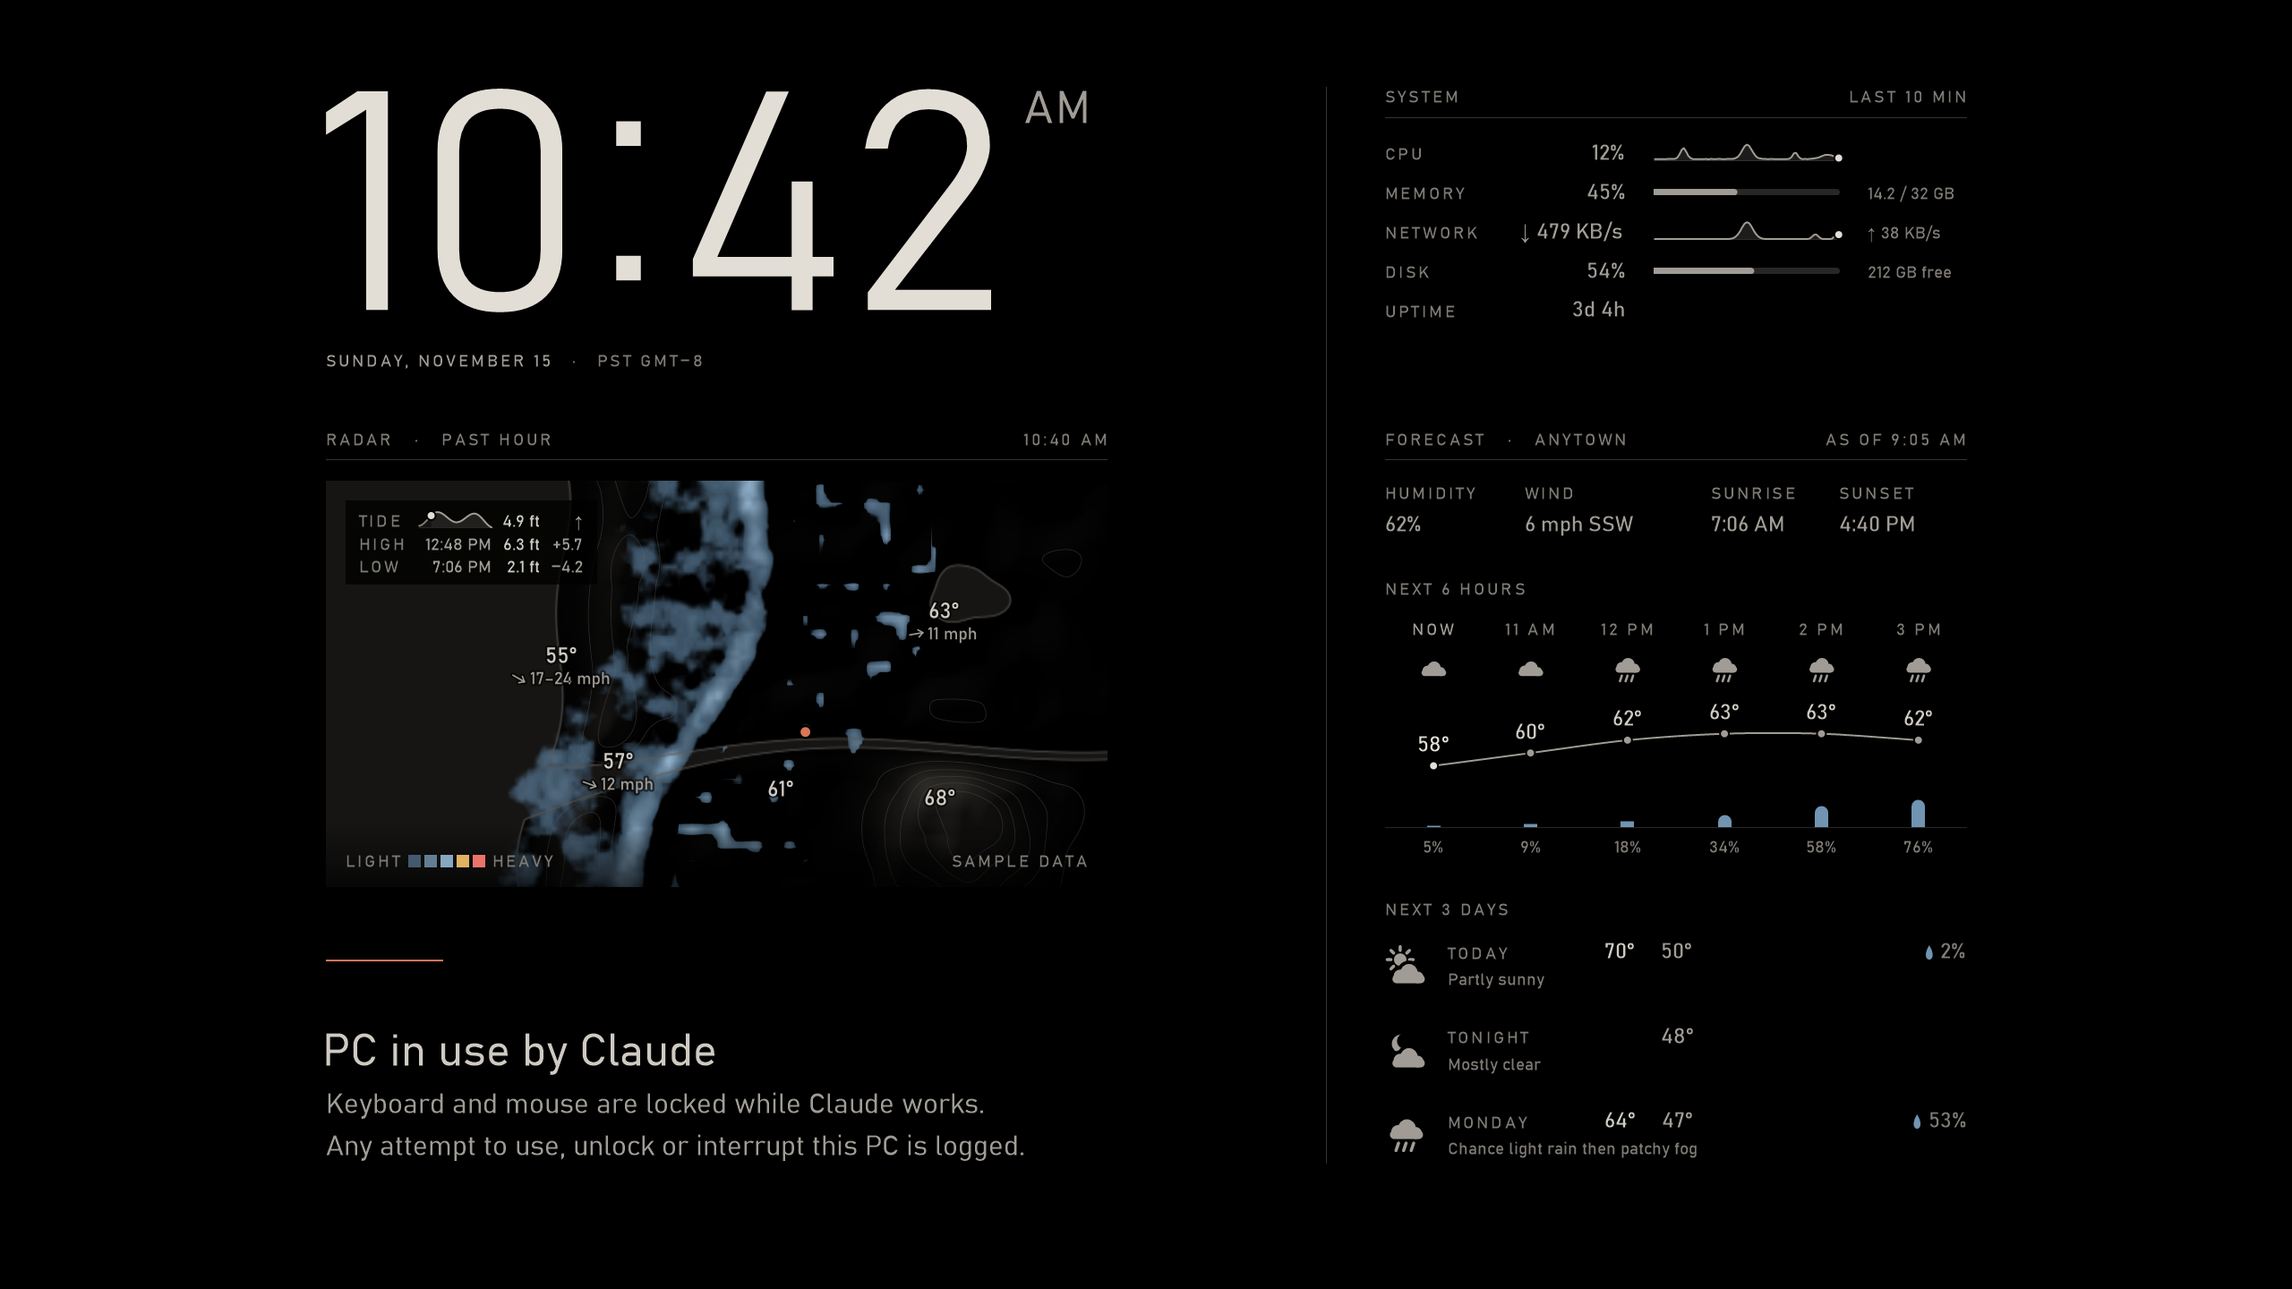
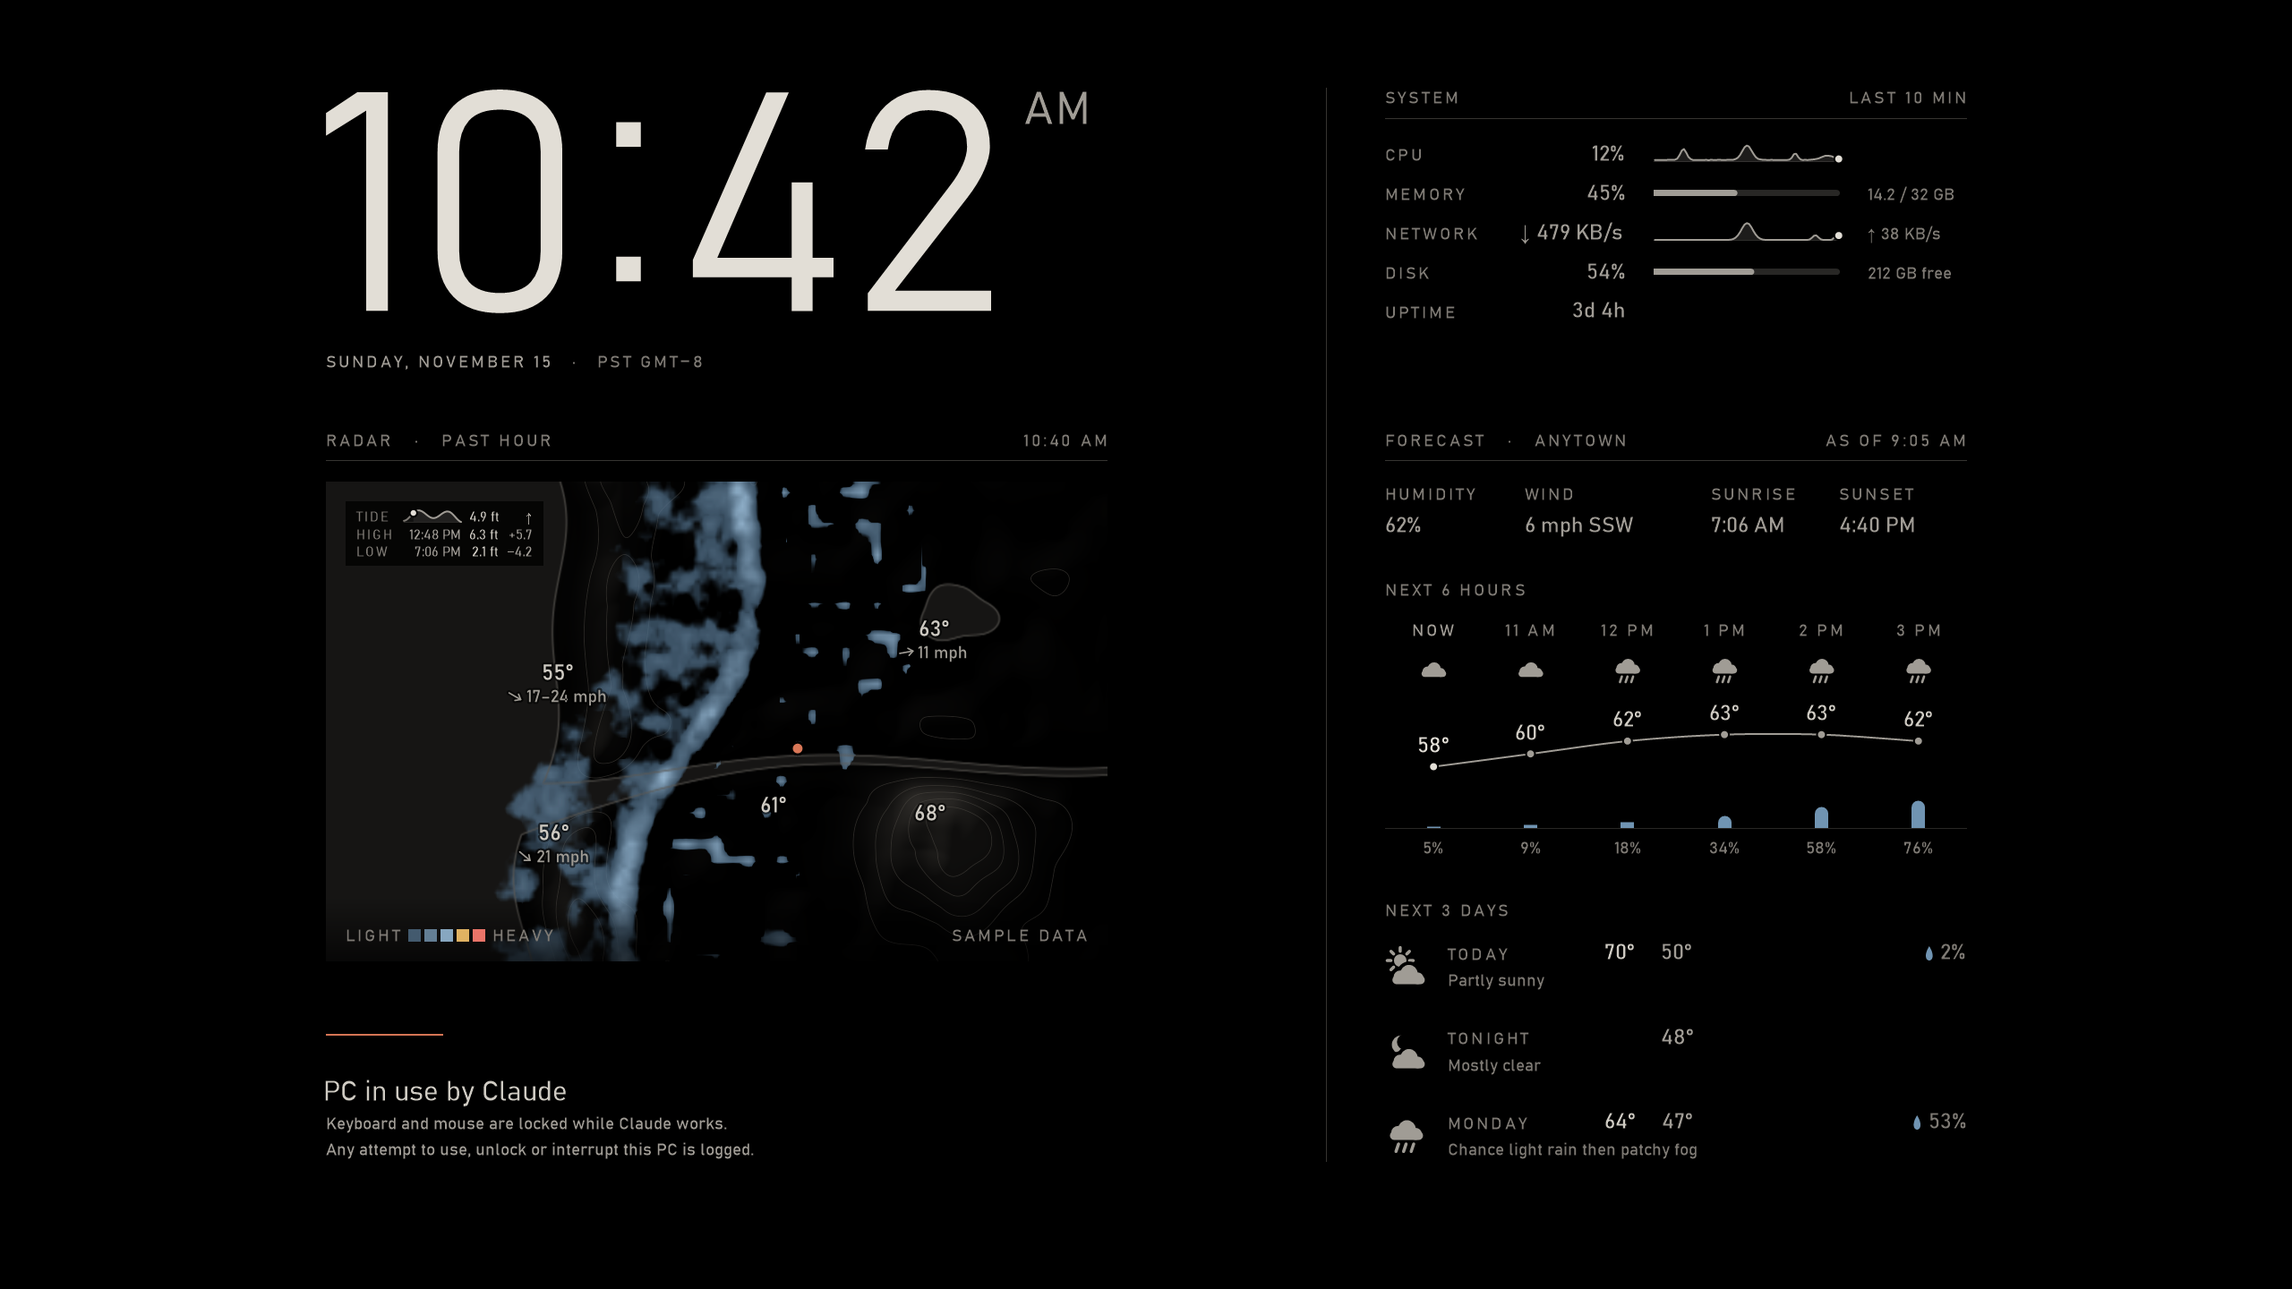
Map 18% taller and 120 km top to bottom; smaller message and tide table
To give the map the height, the message is set a full step smaller (title
C/phi^5, its two lines C/phi^6 in Regular, the accent rule nearer the title
than the map) and the tide table a half step under the map's other labels.
At 1440p the map is 873 x 536 (was 454 tall) and shows 120 km top to bottom
at about the same scale. The download box is 1.6 degrees tall (was 1.2),
kept to whole tenths because map.txt gives the box to one decimal.

Tests: 123 self-tests pass. README images re-rendered from the sample place.

diff --git a/src/CurtainPainter.cs b/src/CurtainPainter.cs
@@ -301,7 +301,8 @@ namespace ClaudeCurtain
             public RectangleF Rule, LeftCol, RightCol;
             public bool Landscape, HasRight;
             public string ClockText = "";
-            public Face Body, Label, Small;
+            public Face Body, Label, Small, Tiny;   // Tiny: the tide table (TinyTrack, its letter-spacing)
+            public float TinyTrack;
 
             // The weather map (Map is empty when there is none): its picture's place, its header, what it plays.
             public RectangleF Map;
@@ -449,13 +450,15 @@ namespace ClaudeCurtain
             L.Landscape = landscape;
             Face fClock = L.Own(MakeFace(famLight, c));
             Face fSuffix = L.Own(MakeFace(famSemi, st(4)));
-            Face fTitle = L.Own(MakeFace(famSemi, st(4)));
-            Face fBody = L.Own(MakeFace(famSemi, st(5)));
+            Face fTitle = L.Own(MakeFace(famSemi, st(5)));      // the message's title; its lines are set in fSmall
+            Face fBody = L.Own(MakeFace(famSemi, st(5)));       // the PIN row's notes
             Face fData = L.Own(MakeFace(famRegular, st(5.5)));
             Face fLabel = L.Own(MakeFace(famRegular, st(6)));
             Face fSmall = L.Own(MakeFace(famRegular, st(6)));
+            Face fTiny = L.Own(MakeFace(famRegular, st(6.5)));  // the tide table on the map
             float track = fLabel.Font.Size * 0.14f;
             L.Body = fBody; L.Label = fLabel; L.Small = fSmall; L.Data = fData; L.Track = track;
+            L.Tiny = fTiny; L.TinyTrack = fTiny.Font.Size * 0.14f;
             Color hero = Scale(Hero, s.NightDim > 0 ? s.NightDim : 1.0);
 
             List<Op> ops = new List<Op>();
@@ -497,19 +500,21 @@ namespace ClaudeCurtain
                     // The message (rule, title, two lines) and the PIN row are measured now and placed after the
                     // data column: on a landscape screen the message's last line sits level with the data
                     // column's last line, so both columns share a top and a bottom edge, with the clock at the
-                    // top, the message at the foot, and the PIN row just above the message.
+                    // top, the message at the foot, and the PIN row just above the message. The message is set
+                    // small (title C/φ⁵, its lines C/φ⁶, the rule nearer the title than the map), so the map
+                    // gets the height.
                     float yDate = y;
                     float ruleW = (float)Math.Round(c / (Phi * Phi)), ruleH = Math.Max(1f, (float)Math.Round(unit / 70f));
                     string title = "PC in use by Claude";
                     string l1 = "Keyboard and mouse are locked while Claude works.";
                     string l2 = "Any attempt to use, unlock or interrupt this PC is logged.";
-                    float msgH = ruleH + st(3) + fTitle.CapHeight + st(5) + fBody.CapHeight + fBody.Font.Size * 1.5f;
+                    float msgH = ruleH + st(4) + fTitle.CapHeight + st(6) + fSmall.CapHeight + fSmall.Font.Size * 1.5f;
                     L.DotSize = Math.Max(6f, (float)Math.Round(st(6.5)));
                     float dotRow = Math.Max(L.DotSize, fBody.CapHeight);
                     float pinH = dotRow + st(5) + fLabel.CapHeight;
                     leftW = Math.Max(leftW, Measure(m, title, fTitle.Font, 0) - InkLeft(title, fTitle));
-                    leftW = Math.Max(leftW, Measure(m, l1, fBody.Font, 0));
-                    leftW = Math.Max(leftW, Measure(m, l2, fBody.Font, 0));
+                    leftW = Math.Max(leftW, Measure(m, l1, fSmall.Font, 0));
+                    leftW = Math.Max(leftW, Measure(m, l2, fSmall.Font, 0));
                     leftW = Math.Max(leftW, Measure(m, HintText, fLabel.Font, track));
                     leftW = Math.Max(leftW, Measure(m, AdminText, fSmall.Font, 0));
 
@@ -553,15 +558,15 @@ namespace ClaudeCurtain
                         L.MapRuleY = mapRule;
                         AddMap(ops, m, s, L, fLabel, track, unit);
                     }
-                    y = ruleTop + ruleH + st(3) + fTitle.CapHeight;
-                    L.Baselines.Add(new KeyValuePair<string, float>("C / \u03C6\u2074", y));
-                    AddText(ops, m, title, fTitle, Primary, -InkLeft(title, fTitle), y, 0);
-                    y += st(5) + fBody.CapHeight;
+                    y = ruleTop + ruleH + st(4) + fTitle.CapHeight;
                     L.Baselines.Add(new KeyValuePair<string, float>("C / \u03C6\u2075", y));
-                    AddText(ops, m, l1, fBody, s.Bright ? hero : Secondary, 0, y, 0);
-                    y += fBody.Font.Size * 1.5f;
-                    AddText(ops, m, l2, fBody, Secondary, 0, y, 0);
-                    float leftBottom = y + fBody.Font.Size * 0.3f;
+                    AddText(ops, m, title, fTitle, Primary, -InkLeft(title, fTitle), y, 0);
+                    y += st(6) + fSmall.CapHeight;
+                    L.Baselines.Add(new KeyValuePair<string, float>("C / \u03C6\u2076", y));
+                    AddText(ops, m, l1, fSmall, s.Bright ? hero : Secondary, 0, y, 0);
+                    y += fSmall.Font.Size * 1.5f;
+                    AddText(ops, m, l2, fSmall, Secondary, 0, y, 0);
+                    float leftBottom = y + fSmall.Font.Size * 0.3f;
 
                     float leftColW = leftW, rightW = 0, colX = 0, colY = 0;
                     if (L.HasRight)
@@ -729,10 +734,10 @@ namespace ClaudeCurtain
             }
 
             // Columns sized to what they hold; the curve takes the time column of the first row.
-            Face fl = L.Label, fs = L.Small;
-            float track = L.Track;
+            Face fl = L.Tiny, fs = L.Tiny;   // a half step under the map's other labels, so it hides less of the map
+            float track = L.TinyTrack;
             Func<double, float> st = k => (float)Math.Round(L.Unit * ClockPerUnit / Math.Pow(Phi, k));
-            float labelW = 0, timeW = st(3), heightW = 0, changeW = 0;
+            float labelW = 0, timeW = st(3.5), heightW = 0, changeW = 0;
             foreach (TideRow r in t.Rows)
             {
                 labelW = Math.Max(labelW, Measure(m, r.Label, fl.Font, track));
@@ -740,8 +745,8 @@ namespace ClaudeCurtain
                 heightW = Math.Max(heightW, Measure(m, r.Height, fs.Font, 0));
                 changeW = Math.Max(changeW, Measure(m, r.Change, fs.Font, 0));
             }
-            float padX = st(6.5), padY = st(7), gap = st(7), sparkH = (float)Math.Round(fs.CapHeight * 1.3f), pitch = fs.CapHeight + st(7);
-            float panelW = (float)Math.Ceiling(padX + labelW + st(6.5) + timeW + gap + heightW + gap + changeW + padX);
+            float padX = st(7), padY = st(7.5), gap = st(7.5), sparkH = (float)Math.Round(fs.CapHeight * 1.3f), pitch = fs.CapHeight + st(7.5);
+            float panelW = (float)Math.Ceiling(padX + labelW + st(7) + timeW + gap + heightW + gap + changeW + padX);
             float panelH = (float)Math.Ceiling(padY + sparkH + pitch * (t.Rows.Count - 1) + padY);
             if (panelW + 2 * pad > mw || panelH + pad + band > mh) return "-";
 
@@ -757,7 +762,7 @@ namespace ClaudeCurtain
 
             float left = t.Panel.Left, top = t.Panel.Top;
             t.LabelX = left + padX;
-            t.TimeRight = (float)Math.Round(t.LabelX + labelW + st(6.5) + timeW);
+            t.TimeRight = (float)Math.Round(t.LabelX + labelW + st(7) + timeW);
             t.HeightRight = (float)Math.Round(t.TimeRight + gap + heightW);
             t.ChangeRight = (float)Math.Round(t.HeightRight + gap + changeW);
             for (int i = 0; i < t.Rows.Count; i++) t.Rows[i].Baseline = (float)Math.Round(top + padY + sparkH + pitch * i);
@@ -940,13 +945,13 @@ namespace ClaudeCurtain
         /// </summary>
         private static void DrawTide(Graphics og, Layout l, TideChart t)
         {
-            Face fl = l.Label, fs = l.Small;
+            Face fl = l.Tiny, fs = l.Tiny;
             using (SolidBrush ground = new SolidBrush(Color.FromArgb(200, 0, 0, 0)))
                 og.FillRectangle(ground, t.Panel);
             foreach (TideRow r in t.Rows)
             {
                 float top = (float)Math.Round(r.Baseline - fs.Ascent);
-                DrawText(og, r.Label, fl.Font, Tertiary, (float)Math.Round(t.LabelX), (float)Math.Round(r.Baseline - fl.Ascent), l.Track, 0);
+                DrawText(og, r.Label, fl.Font, Tertiary, (float)Math.Round(t.LabelX), (float)Math.Round(r.Baseline - fl.Ascent), l.TinyTrack, 0);
                 DrawText(og, r.Time, fs.Font, Secondary, (float)Math.Round(t.TimeRight - Measure(og, r.Time, fs.Font, 0)), top, 0, 0);
                 DrawText(og, r.Height, fs.Font, Primary, (float)Math.Round(t.HeightRight - Measure(og, r.Height, fs.Font, 0)), top, 0, 0);
                 DrawText(og, r.Change, fs.Font, Secondary, (float)Math.Round(t.ChangeRight - Measure(og, r.Change, fs.Font, 0)), top, 0, 0);
@@ -965,7 +970,7 @@ namespace ClaudeCurtain
             using (Pen line = new Pen(Secondary, lw) { LineJoin = LineJoin.Round, StartCap = LineCap.Round, EndCap = LineCap.Round })
                 og.DrawLines(line, coming);
             PointF p = t.Curve[t.Now];
-            float d = Math.Max(5f, l.Unit / 20f);
+            float d = Math.Max(5f, l.Unit / 25f);
             using (SolidBrush ring = new SolidBrush(Color.Black))
                 og.FillEllipse(ring, p.X - d / 2f - lw, p.Y - d / 2f - lw, d + 2 * lw, d + 2 * lw);
             using (SolidBrush dot = new SolidBrush(Hero))

diff --git a/src/SelfTest.cs b/src/SelfTest.cs
@@ -633,11 +633,11 @@ namespace ClaudeCurtain
             // Which part of the area shows.
             {
                 GeoBox box = new GeoBox(44.4, -123.5, 45.6, -120.5), roomy = new GeoBox(44.2, -124.2, 45.8, -119.8);
-                GeoBox c = WeatherMap.Crop(roomy, 45.0, -122.0, 873, 454);
-                double homeX = (-122.0 - c.West) / (c.East - c.West) * 873, homeY = (c.North - 45.0) / (c.North - c.South) * 454;
-                Check("map: it shows 100 km top to bottom, keeps the map's shape, and puts home on the golden section both ways, the larger parts west and north of it",
-                      WeatherMap.ViewKm == 100 && Math.Abs(c.KmTall - WeatherMap.ViewKm) < 0.5 && Math.Abs(c.KmWide / c.KmTall - 873 / 454.0) < 0.02 &&
-                      Math.Abs(homeX - 873 / CurtainPainter.Phi) < 1.5 && Math.Abs(homeY - 454 / CurtainPainter.Phi) < 1.5);
+                GeoBox c = WeatherMap.Crop(roomy, 45.0, -122.0, 873, 536);
+                double homeX = (-122.0 - c.West) / (c.East - c.West) * 873, homeY = (c.North - 45.0) / (c.North - c.South) * 536;
+                Check("map: it shows 120 km top to bottom, keeps the map's shape, and puts home on the golden section both ways, the larger parts west and north of it",
+                      WeatherMap.ViewKm == 120 && Math.Abs(c.KmTall - WeatherMap.ViewKm) < 0.5 && Math.Abs(c.KmWide / c.KmTall - 873 / 536.0) < 0.02 &&
+                      Math.Abs(homeX - 873 / CurtainPainter.Phi) < 1.5 && Math.Abs(homeY - 536 / CurtainPainter.Phi) < 1.5);
                 GeoBox wide = WeatherMap.Crop(box, 45.0, -122.0, 3000, 100);
                 GeoBox edge = WeatherMap.Crop(box, 44.5, -123.45, 873, 390);
                 Check("map: it never reaches outside the pictures, even for a very wide map or a home near their edge",

diff --git a/src/WeatherMap.cs b/src/WeatherMap.cs
@@ -108,7 +108,7 @@ namespace ClaudeCurtain
     {
         public const string IndexName = "map.txt";
         public const double KmPerDegree = 111.2;
-        public const double ViewKm = 100;         // how much of the area the map shows, top to bottom
+        public const double ViewKm = 120;         // how much of the area the map shows, top to bottom
         public const double StaleHours = 3;       // older pictures are never shown
         public const int RainDbz = 20;            // light rain on the radar
         public const int RainChance = 30;         // % chance in the next three hours that makes the map show radar

diff --git a/README.md b/README.md
@@ -205,7 +205,8 @@ about what it is doing. Everything on it comes from one proportional system buil
   Regular for data. Every size is the clock size divided by a power of φ, and every gap is a step on the
   same scale. Large type is aligned by its ink rather than its side bearing, the colon is lifted to the
   optical centre of the digits, AM/PM hangs small at cap height, and small capitals are letter-spaced.
-  Forecast text is set in sentence case.
+  Forecast text is set in sentence case. The message is set small (its title C/φ⁵, its two lines C/φ⁶,
+  the accent rule nearer the title than the map), so the map gets the height.
 - **Data.** CPU and download rate are ten-minute sparklines with the newest reading at the right and a dot
   on it; memory and disk are proportion bars. CPU is drawn on a fixed 0–100% scale, so a quiet machine
   looks quiet. Every value is also printed as text beside its graphic, so nothing depends on reading a
@@ -218,7 +219,7 @@ about what it is doing. Everything on it comes from one proportional system buil
   sections ("RADAR · PAST HOUR", the picture's time at the right). On a landscape screen the data column
   decides where the message sits, so the map fills space that was empty and moves nothing else; its header
   shares a line with the forecast's, which gives it the room the forecast takes below that line. It shows
-  100 km top to bottom, with home as a small accent-coloured dot on the golden section both ways, so the
+  120 km top to bottom, with home as a small accent-coloured dot on the golden section both ways, so the
   larger parts of the map lie to the west, where weather usually comes from, and to the north. It is drawn
   in the curtain's own palette rather than the services' colours: water a shade lighter than the black
   land, the shoreline a fine line drawn over the weather so the coast stays readable under fog, rain in
@@ -227,8 +228,9 @@ about what it is doing. Everything on it comes from one proportional system buil
   the brightest thing on screen. Under the weather the land's relief stays ground rather than picture: lit
   slopes, a faint warm tint on high ground and hairline contours every 200 m, like a topographic print.
   Over it, a few labels with a dark halo: station temperatures spread across the map, and wind only where
-  it is notable. The tide has a small table in one of the top corners, with what a fisherman or a surfer
-  looks for: "TIDE" with the day's curve (now a bright dot on it), the height now and an arrow for rising
+  it is notable. The tide has a small table in one of the top corners, set a half step under the map's
+  other labels so it hides little of the map, with what a fisherman or a surfer looks for:
+  "TIDE" with the day's curve (now a bright dot on it), the height now and an arrow for rising
   or falling; then the next low and high with their times, heights and the change from the high or low
   before ("−6.1": the water drops 6.1 ft). It takes the top corner that hides fewer temperatures; on a tie
   the one over more water (the tide's own element, with no towns or hills to hide), then the east one, where
@@ -340,7 +342,7 @@ And in the left column:
   pictures, the station reports and the tide) and, in the background, refreshes it every 5 minutes
   (`-MapMinutes`), keeping only the last hour of pictures. The map's credit reads "NOAA · USGS ·
   © OpenStreetMap".
-  Requests carry a box of 1.2 × 3 degrees around the forecast grid, rounded to a tenth of a degree (about
+  Requests carry a box of 1.6 × 3 degrees around the forecast grid, rounded to a tenth of a degree (about
   10 km), so the servers learn the area, never the address; no key, no account. Pictures more than three
   hours old are never shown, and with no map files at all the curtain looks exactly as it did before the
   map. `-NoMap` leaves it out. Like the forecast, it covers the United States.
